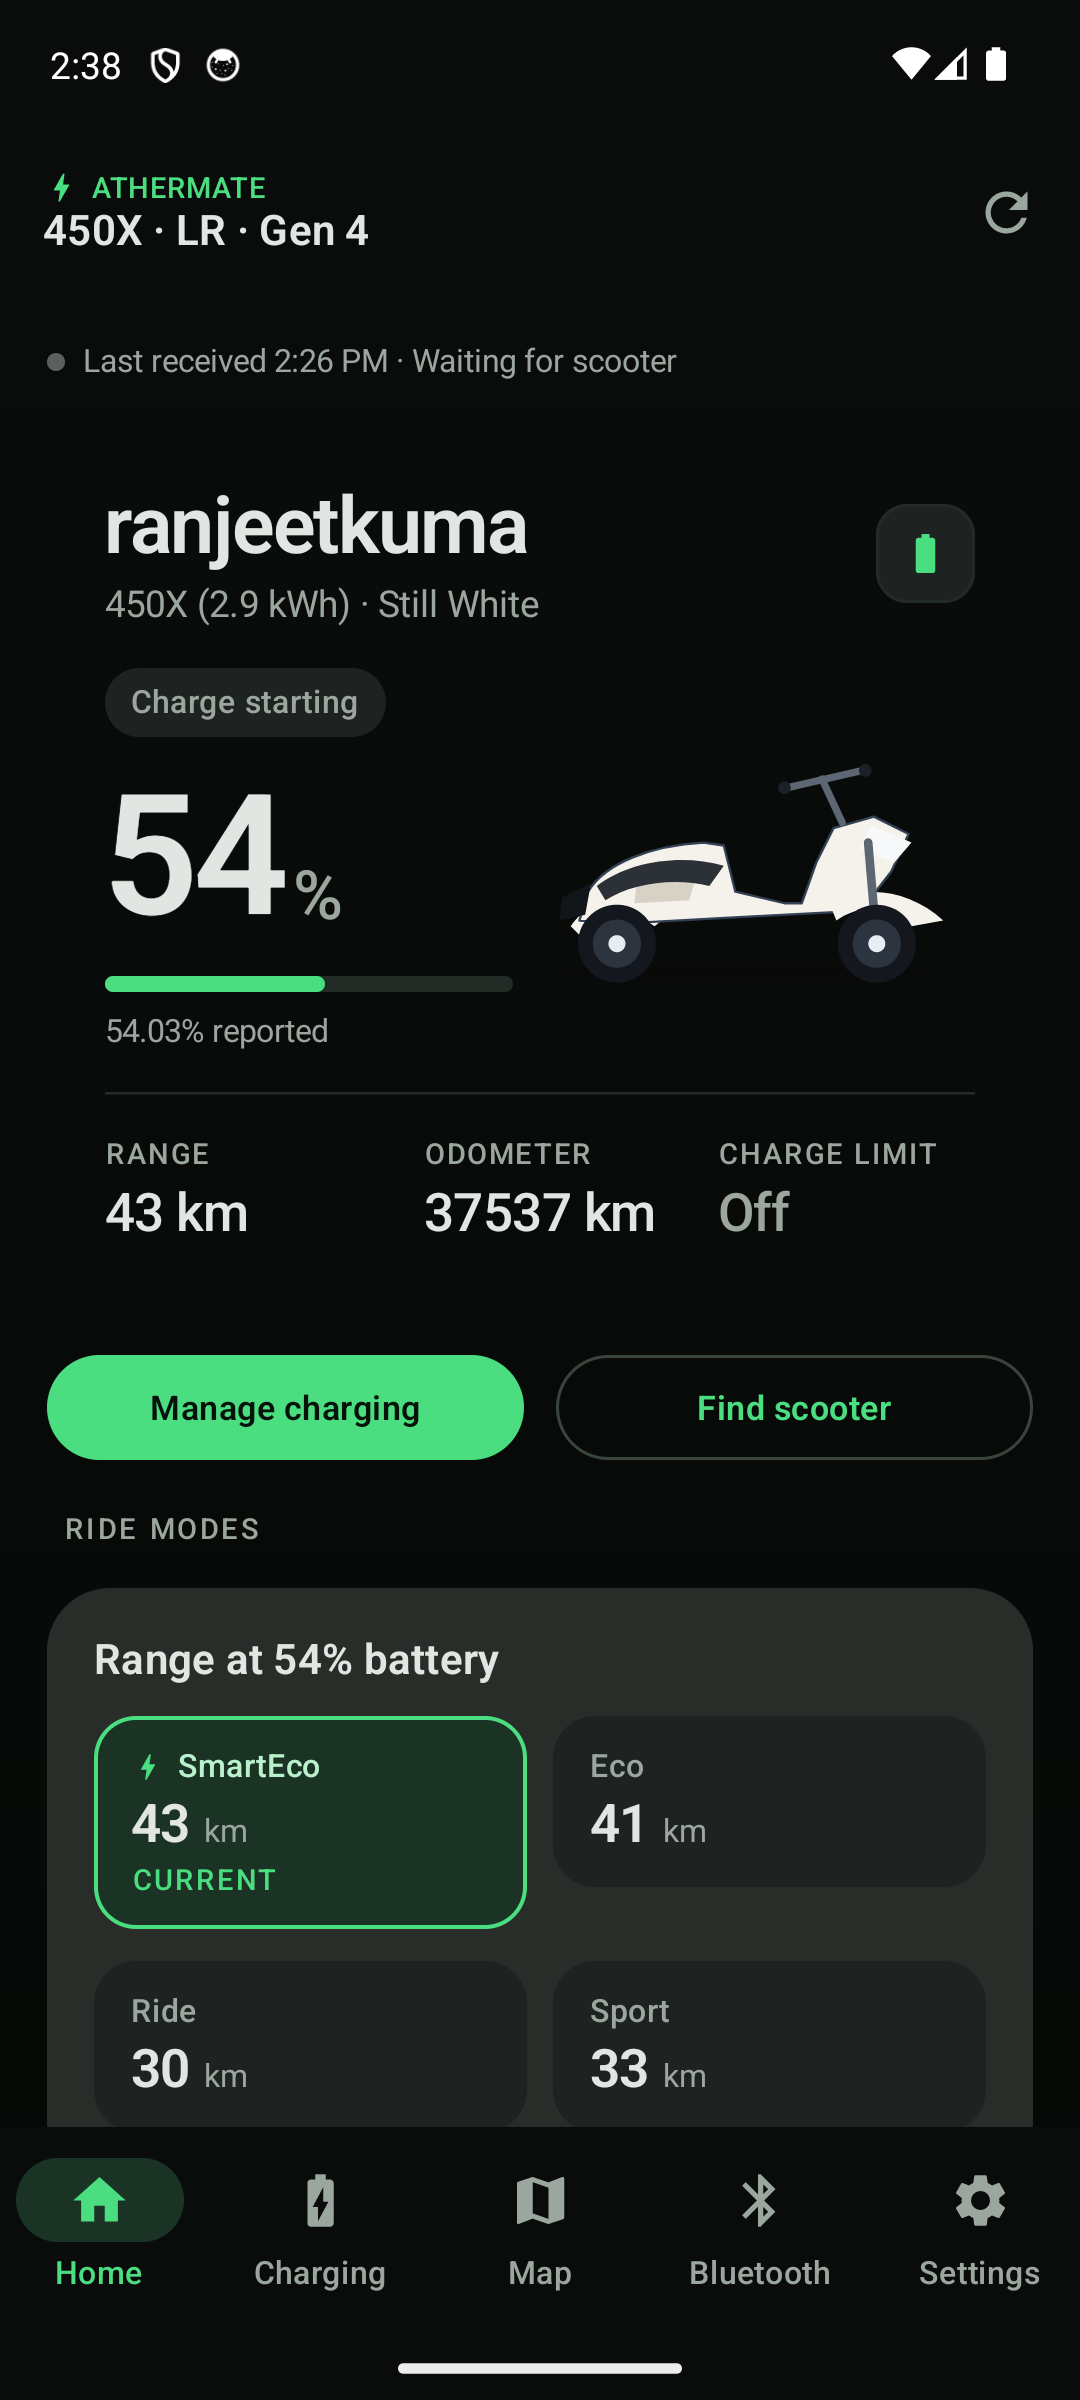
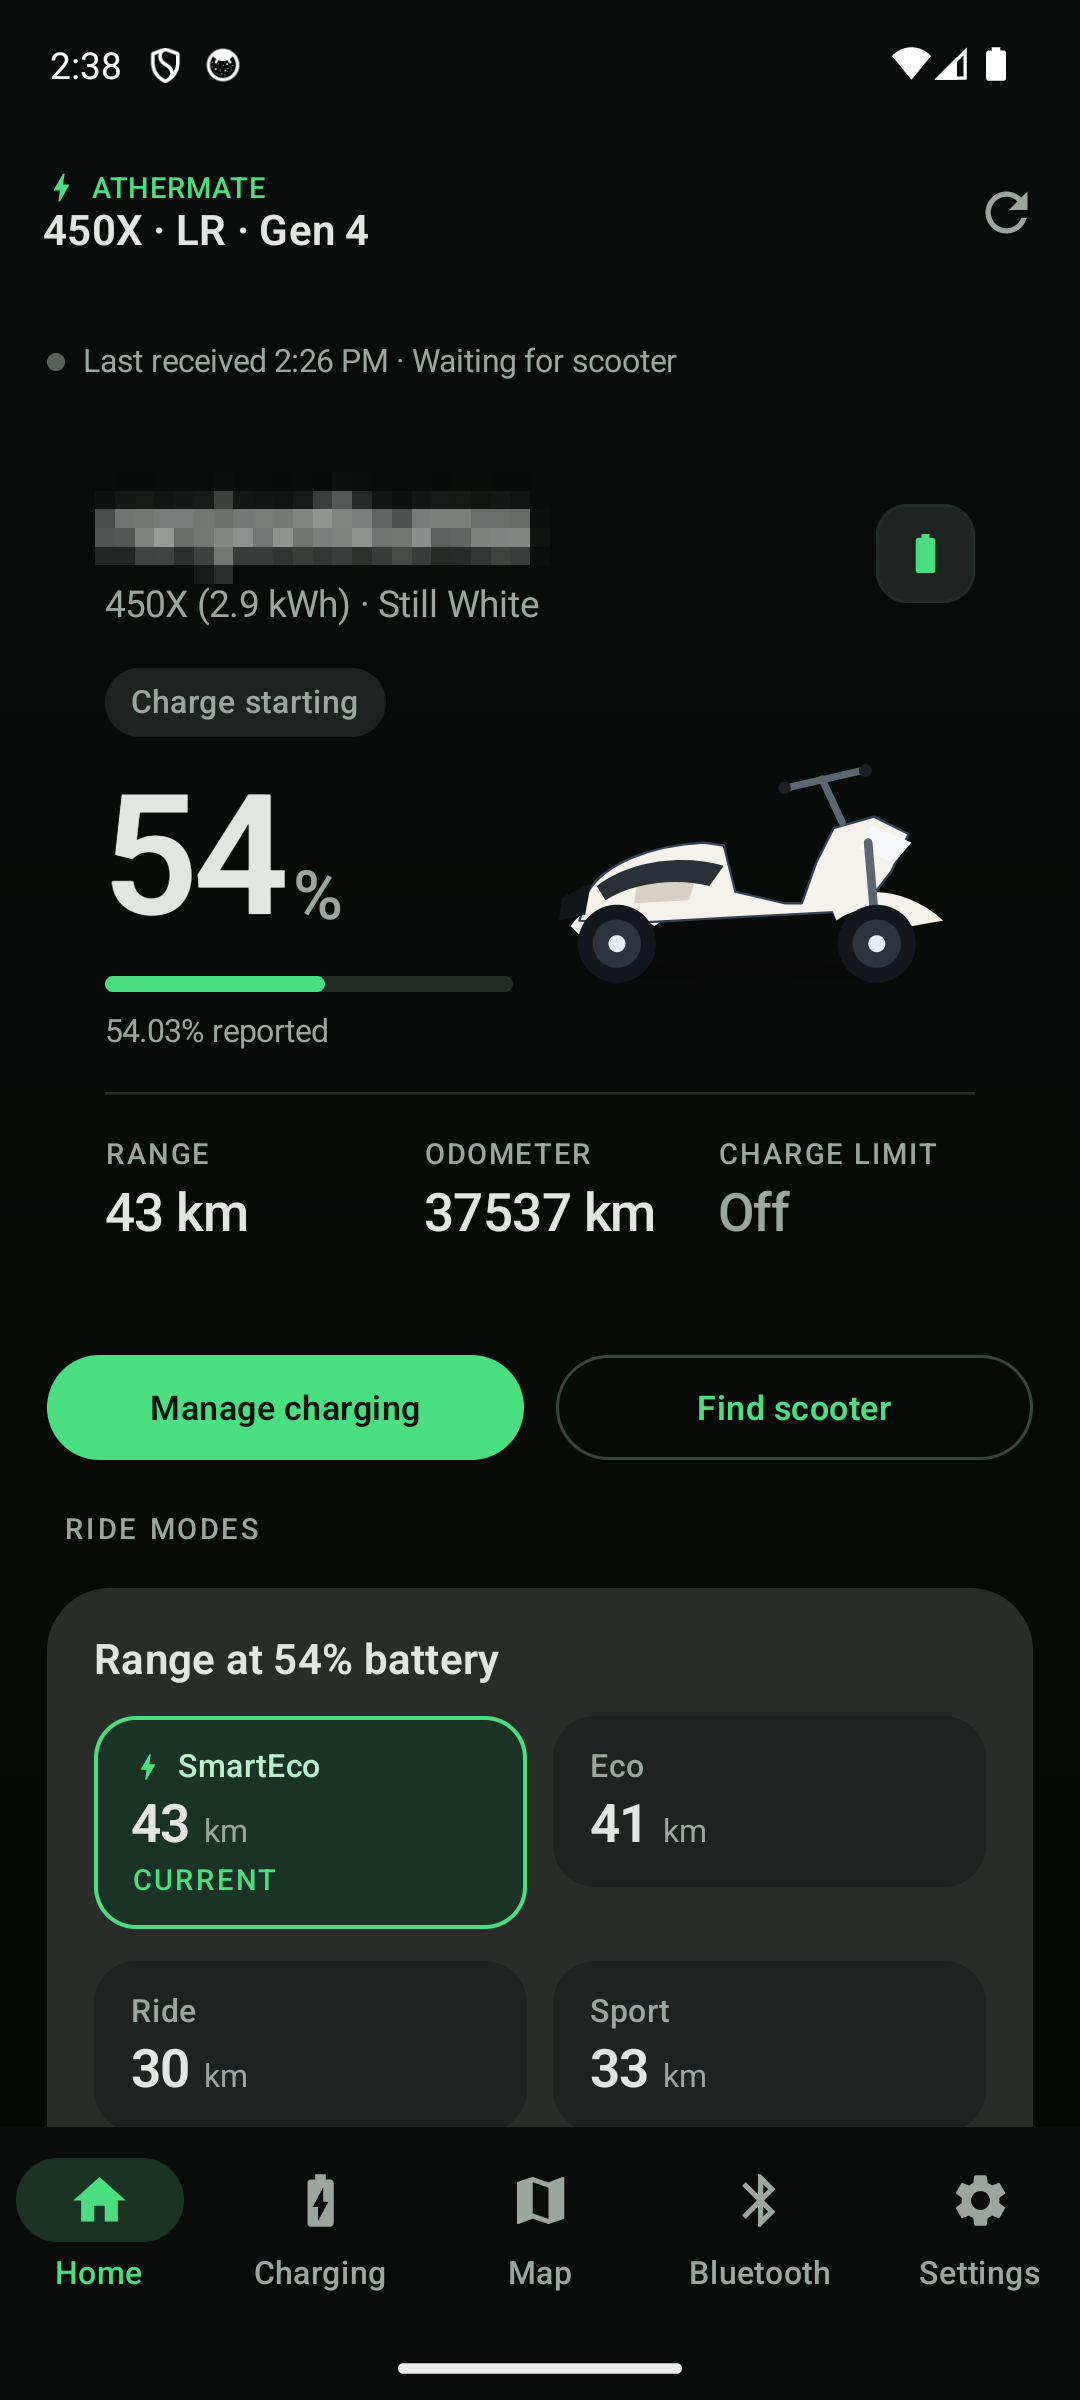
Redact scooter nickname on all screenshots; proper notification card crop
The 'ranjeetkuma' account nickname was still readable on both dashboard
shots and the charger-connected sheet - now pixelated with the model
subtitle left intact. The charging notification is re-cropped to the
card itself and displayed larger instead of a thin strip.

Changed region(s): [[0.0917, 0.1875, 0.4889, 0.25]]

diff --git a/README.md b/README.md
@@ -31,7 +31,7 @@ The current app (account name pixelated in Settings):
 
 | Settings | Charging notification |
 | :---: | :---: |
-| <img src="docs/assets/fork/settings_light.png" width="240" alt="Settings with profile, name pixelated" /> | <img src="docs/assets/fork/notification_charging.png" width="360" alt="Charging progress notification" /> |
+| <img src="docs/assets/fork/settings_light.png" width="240" alt="Settings with profile, name pixelated" /> | <img src="docs/assets/fork/notification_charging.png" width="420" alt="Charging progress notification" /> |
 
 <details>
 <summary>Earlier upstream screenshots (Athr+ v1.1.x)</summary>
